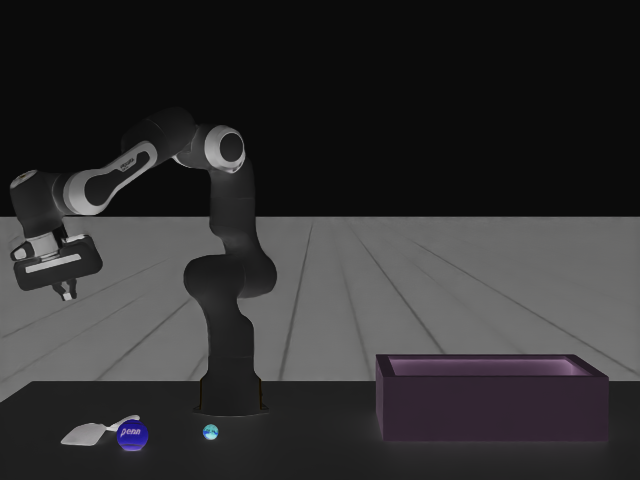
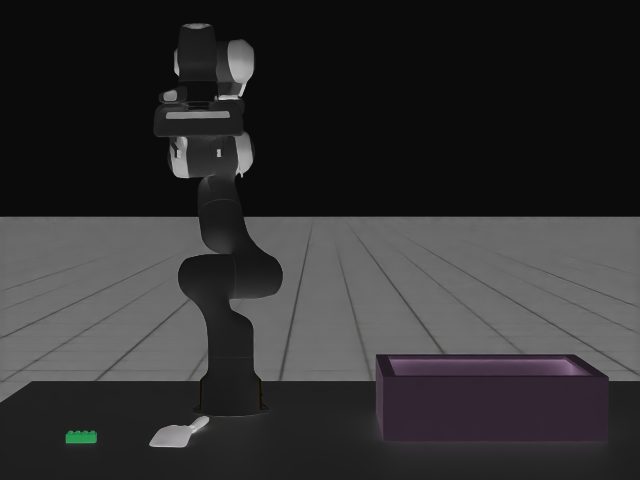
obs added

diff --git a/day3/day3_3.3.pickplace_object_statemachine.py b/day3/day3_3.3.pickplace_object_statemachine.py
@@ -73,13 +73,16 @@ MODEL_PATH = os.path.join(DIR_PATH, 'data/checkpoint/maskrcnn_ckpt/maskrcnn_trai
 NUM_CLASSES = 79  # 모델 구조는 학습 때와 동일해야 함
 CONFIDENCE_THRESHOLD = 0.5
 
+# YCB_OBJECT_CLASSES = sorted([
+#     '002_master_chef_can', '008_pudding_box', '014_lemon', '021_bleach_cleanser', '029_plate', '036_wood_block', '044_flat_screwdriver', '054_softball', '061_foam_brick', '065_c_cups', '065_i_cups', '072_b_toy_airplane', '073_c_lego_duplo',
+#     '003_cracker_box', '009_gelatin_box', '015_peach', '022_windex_bottle', '030_fork', '037_scissors', '048_hammer', '055_baseball', '062_dice', '065_d_cups', '065_j_cups', '072_c_toy_airplane', '073_d_lego_duplo',
+#     '004_sugar_box', '010_potted_meat_can', '016_pear', '024_bowl', '031_spoon', '038_padlock', '050_medium_clamp', '056_tennis_ball', '063_a_marbles', '065_e_cups', '070_a_colored_wood_blocks', '072_d_toy_airplane', '073_e_lego_duplo',
+#     '005_tomato_soup_can', '011_banana', '017_orange', '025_mug', '032_knife', '040_large_marker', '051_large_clamp', '057_racquetball', '063_b_marbles', '065_f_cups', '070_b_colored_wood_blocks', '072_e_toy_airplane', '073_f_lego_duplo',
+#     '006_mustard_bottle', '012_strawberry', '018_plum', '026_sponge', '033_spatula', '042_adjustable_wrench', '052_extra_large_clamp', '058_golf_ball', '065_a_cups', '065_g_cups', '071_nine_hole_peg_test', '073_a_lego_duplo', '073_g_lego_duplo',
+#     '007_tuna_fish_can', '013_apple', '019_pitcher_base', '028_skillet_lid', '035_power_drill', '043_phillips_screwdriver', '053_mini_soccer_ball', '059_chain', '065_b_cups', '065_h_cups', '072_a_toy_airplane', '073_b_lego_duplo', '077_rubiks_cube'
+# ])
 YCB_OBJECT_CLASSES = sorted([
-    '002_master_chef_can', '008_pudding_box', '014_lemon', '021_bleach_cleanser', '029_plate', '036_wood_block', '044_flat_screwdriver', '054_softball', '061_foam_brick', '065_c_cups', '065_i_cups', '072_b_toy_airplane', '073_c_lego_duplo',
-    '003_cracker_box', '009_gelatin_box', '015_peach', '022_windex_bottle', '030_fork', '037_scissors', '048_hammer', '055_baseball', '062_dice', '065_d_cups', '065_j_cups', '072_c_toy_airplane', '073_d_lego_duplo',
-    '004_sugar_box', '010_potted_meat_can', '016_pear', '024_bowl', '031_spoon', '038_padlock', '050_medium_clamp', '056_tennis_ball', '063_a_marbles', '065_e_cups', '070_a_colored_wood_blocks', '072_d_toy_airplane', '073_e_lego_duplo',
-    '005_tomato_soup_can', '011_banana', '017_orange', '025_mug', '032_knife', '040_large_marker', '051_large_clamp', '057_racquetball', '063_b_marbles', '065_f_cups', '070_b_colored_wood_blocks', '072_e_toy_airplane', '073_f_lego_duplo',
-    '006_mustard_bottle', '012_strawberry', '018_plum', '026_sponge', '033_spatula', '042_adjustable_wrench', '052_extra_large_clamp', '058_golf_ball', '065_a_cups', '065_g_cups', '071_nine_hole_peg_test', '073_a_lego_duplo', '073_g_lego_duplo',
-    '007_tuna_fish_can', '013_apple', '019_pitcher_base', '028_skillet_lid', '035_power_drill', '043_phillips_screwdriver', '053_mini_soccer_ball', '059_chain', '065_b_cups', '065_h_cups', '072_a_toy_airplane', '073_b_lego_duplo', '077_rubiks_cube'
+     '013_apple'
 ])
 CLASS_NAME = ['BACKGROUND'] + YCB_OBJECT_CLASSES
 
@@ -538,7 +541,7 @@ def main():
 
     # 카메라 인트린식(intrinsics)
     K = robot_camera.data.intrinsic_matrices.squeeze().cpu().numpy()
-
+    total_reward = 0
     # 시뮬레이션 루프
     while simulation_app.is_running():
         # 모델 추론 상태 - 학습 연산 비활성화
@@ -815,7 +818,7 @@ def main():
             tcp_rest_position = ee_frame_sensor.data.target_pos_w[..., 0, :].clone() - env.unwrapped.scene.env_origins
             tcp_rest_orientation = ee_frame_sensor.data.target_quat_w[..., 0, :].clone()
             ee_pose = torch.cat([tcp_rest_position, tcp_rest_orientation], dim=-1)
-
+            
             # state machine 을 통한 action 값 출력
             actions = pick_and_place_sm.compute(
                 ee_pose=ee_pose,
@@ -823,13 +826,21 @@ def main():
                 pregrasp_pose=pick_and_place_sm.pregrasp_pose,
                 robot_data=robot_data,
             )
+            
+            #print("grasp_pose = ", grasp_pose)
             print("actions = ", actions)
             # 환경에 대한 액션을 실행
             obs, rewards, terminated, truncated, info = env.step(actions)
-
+            robotstate = torch.cat([ee_pose, torch.tensor(obs["policy"][0, 7:9].tolist(), device=ee_pose.device).unsqueeze(0)], dim=-1)
+            #print(robotstate.shape)
+            # print("reward = ", rewards)
+            # print("total = ", total_reward)
+            
             # 시뮬레이션 종료 여부 체크
             dones = terminated | truncated
+            print("dones = ", dones)
             if dones:
+                total_reward=0
                 if terminated:
                     print("Episode terminated")
                 else:

diff --git a/day3/task/lift/custom_lift_env_cfg_3_1.py b/day3/task/lift/custom_lift_env_cfg_3_1.py
@@ -114,15 +114,15 @@ class ObjectTableSceneCfg(InteractiveSceneCfg):
 class CommandsCfg:
     """MDP에 사용되는 명령어(command) 정의"""
 
-    # object_pose = mdp_3_1.UniformPoseCommandCfg(
-    #     asset_name="robot",
-    #     body_name=MISSING,      # agent 환경에서 지정됨
-    #     resampling_time_range=(5.0, 5.0),
-    #     debug_vis=False,
-    #     ranges=mdp_3_1.UniformPoseCommandCfg.Ranges(
-    #         pos_x=(0.5, 0.5), pos_y=(-0.0, 0.0), pos_z=(0.525, 0.53), roll=(0.0, 0.0), pitch=(0.0, 0.0), yaw=(0.0, 0.0)
-    #     ),
-    # )
+    object_pose = mdp_3_1.UniformPoseCommandCfg(
+        asset_name="robot",
+        body_name="panda_hand",      # agent 환경에서 지정됨
+        resampling_time_range=(5.0, 5.0),
+        debug_vis=False,
+        ranges=mdp_3_1.UniformPoseCommandCfg.Ranges(
+            pos_x=(0.5, 0.5), pos_y=(-0.0, 0.0), pos_z=(0.525, 0.53), roll=(0.0, 0.0), pitch=(0.0, 0.0), yaw=(0.0, 0.0)
+        ),
+    )
 
 
 @configclass
@@ -140,21 +140,21 @@ class ActionsCfg:
 class ObservationsCfg:
     """MDP에 사용되는 관측(observation) 정의"""
 
-    # @configclass
-    # class PolicyCfg(ObsGroup):
-    #     """policy 네트워크 입력에 사용되는 관측 항목 그룹"""
-    #     joint_pos = ObsTerm(func=mdp_3_1.joint_pos_rel)
-    #     joint_vel = ObsTerm(func=mdp_3_1.joint_vel_rel)
-    #     object_position = ObsTerm(func=mdp_3_1.object_position_in_robot_root_frame)
-    #     # target_object_position = ObsTerm(func=mdp_3_1.generated_commands, params={"command_name": "object_pose"})
-    #     actions = ObsTerm(func=mdp_3_1.last_action)
+    @configclass
+    class PolicyCfg(ObsGroup):
+        """policy 네트워크 입력에 사용되는 관측 항목 그룹"""
+        joint_pos = ObsTerm(func=mdp_3_1.joint_pos_rel)
+        joint_vel = ObsTerm(func=mdp_3_1.joint_vel_rel)
+        object_position = ObsTerm(func=mdp_3_1.object_position_in_robot_root_frame)
+        # target_object_position = ObsTerm(func=mdp_3_1.generated_commands, params={"command_name": "object_pose"})
+        actions = ObsTerm(func=mdp_3_1.last_action)
 
-    #     def __post_init__(self):
-    #         self.enable_corruption = True
-    #         self.concatenate_terms = True
+        def __post_init__(self):
+            self.enable_corruption = True
+            self.concatenate_terms = True
 
-    # # 관측 그룹 등록
-    # policy: PolicyCfg = PolicyCfg()
+    # 관측 그룹 등록
+    policy: PolicyCfg = PolicyCfg()
 
 
 @configclass
@@ -177,30 +177,30 @@ class EventCfg:
 class RewardsCfg:
     """보상(reward) 항목 설정 - 강화학습 개발시 필요"""
 
-    # reaching_object = RewTerm(func=mdp_3_1.object_ee_distance, params={"std": 0.1}, weight=1.0)
+    reaching_object = RewTerm(func=mdp_3_1.object_ee_distance, params={"std": 0.1}, weight=1.0)
 
-    # lifting_object = RewTerm(func=mdp_3_1.object_is_lifted, params={"minimal_height": 0.04}, weight=15.0)
+    lifting_object = RewTerm(func=mdp_3_1.object_is_lifted, params={"minimal_height": 0.04}, weight=15.0)
 
-    # object_goal_tracking = RewTerm(
-    #     func=mdp_3_1.object_goal_distance,
-    #     params={"std": 0.3, "minimal_height": 0.04, "command_name": "object_pose"},
-    #     weight=16.0,
-    # )
+    object_goal_tracking = RewTerm(
+        func=mdp_3_1.object_goal_distance,
+        params={"std": 0.3, "minimal_height": 0.04, "command_name": "object_pose"},
+        weight=16.0,
+    )
 
-    # object_goal_tracking_fine_grained = RewTerm(
-    #     func=mdp_3_1.object_goal_distance,
-    #     params={"std": 0.05, "minimal_height": 0.04, "command_name": "object_pose"},
-    #     weight=5.0,
-    # )
+    object_goal_tracking_fine_grained = RewTerm(
+        func=mdp_3_1.object_goal_distance,
+        params={"std": 0.05, "minimal_height": 0.04, "command_name": "object_pose"},
+        weight=5.0,
+    )
 
-    # # action penalty
-    # action_rate = RewTerm(func=mdp_3_1.action_rate_l2, weight=-1e-4)
+    # action penalty
+    action_rate = RewTerm(func=mdp_3_1.action_rate_l2, weight=-1e-4)
 
-    # joint_vel = RewTerm(
-    #     func=mdp_3_1.joint_vel_l2,
-    #     weight=-1e-4,
-    #     params={"asset_cfg": SceneEntityCfg("robot")},
-    # )
+    joint_vel = RewTerm(
+        func=mdp_3_1.joint_vel_l2,
+        weight=-1e-4,
+        params={"asset_cfg": SceneEntityCfg("robot")},
+    )
 
 
 @configclass

diff --git a/day3/task/lift/custom_pickplace_env_cfg_3_3.py b/day3/task/lift/custom_pickplace_env_cfg_3_3.py
@@ -99,7 +99,7 @@ class ObjectTableSceneCfg(InteractiveSceneCfg):
         ycb_obj_usd_paths = glob.glob('data/assets/ycb_usd/ycb/*/final.usd')
 
         # YCB object 중 3가지 물체 random하게 설정
-        selected_ycb_obj_usd_paths = random.sample(ycb_obj_usd_paths, 3)
+        selected_ycb_obj_usd_paths = random.sample(ycb_obj_usd_paths, 1)
 
         # YCB object 놓을 위치 지정(카메라 view에 맞게)
         objects_position = [[0.4, 0.0, 0.6],
@@ -111,10 +111,12 @@ class ObjectTableSceneCfg(InteractiveSceneCfg):
 
             # 지정된 위치에서 일정 거리 내에 random하게 위치 재설정 (0.05 이내)
             # 물체가 안겹치게 생성되도록 z위치를 조금씩 다르게 설정하는 것이 좋음
+            # random_position = [objects_position[i][0] + random.random() * 0.05, 
+            #                    objects_position[i][1] + random.random() * 0.03, 
+            #                    objects_position[i][2] + 0.05 * i]
             random_position = [objects_position[i][0] + random.random() * 0.05, 
                                objects_position[i][1] + random.random() * 0.03, 
                                objects_position[i][2] + 0.05 * i]
-            
             # YCB object 경로를 절대 경로로 설정
             ycb_obj_usd_path = os.path.join(os.getcwd(), selected_ycb_obj_usd_paths[i])
 
@@ -156,6 +158,15 @@ class ObjectTableSceneCfg(InteractiveSceneCfg):
 class CommandsCfg:
     """MDP에 사용되는 명령어(command) 정의"""
 
+    # object_pose = mdp.UniformPoseCommandCfg(
+    #     asset_name="robot",
+    #     body_name="panda_hand",      # agent 환경에서 지정됨
+    #     resampling_time_range=(5.0, 5.0),
+    #     debug_vis=False,
+    #     ranges=mdp.UniformPoseCommandCfg.Ranges(
+    #         pos_x=(0.5, 0.5), pos_y=(-0.0, 0.0), pos_z=(0.525, 0.53), roll=(0.0, 0.0), pitch=(0.0, 0.0), yaw=(0.0, 0.0)
+    #     ),
+    # )
 
 @configclass
 class ActionsCfg:
@@ -169,6 +180,21 @@ class ActionsCfg:
 class ObservationsCfg:
     """MDP에 사용되는 관측(observation) 정의"""
 
+    @configclass
+    class PolicyCfg(ObsGroup):
+        """policy 네트워크 입력에 사용되는 관측 항목 그룹"""
+        joint_pos = ObsTerm(func=mdp.joint_pos_rel)
+        joint_vel = ObsTerm(func=mdp.joint_vel_rel)
+        object_position = ObsTerm(func=mdp.object_position_in_robot_root_frame)
+        # target_object_position = ObsTerm(func=mdp_3_1.generated_commands, params={"command_name": "object_pose"})
+        actions = ObsTerm(func=mdp.last_action)
+
+        def __post_init__(self):
+            self.enable_corruption = True
+            self.concatenate_terms = True
+
+    # 관측 그룹 등록
+    policy: PolicyCfg = PolicyCfg()
 
 @configclass
 class EventCfg:
@@ -179,7 +205,30 @@ class EventCfg:
 @configclass
 class RewardsCfg:
     """보상(reward) 항목 설정 - 강화학습 개발시 필요"""
+    # reaching_object = RewTerm(func=mdp.object_ee_distance, params={"std": 0.1}, weight=1.0)
 
+    # lifting_object = RewTerm(func=mdp.object_is_lifted, params={"minimal_height": 0.04}, weight=15.0)
+
+    # object_goal_tracking = RewTerm(
+    #     func=mdp.object_goal_distance,
+    #     params={"std": 0.3, "minimal_height": 0.04, "command_name": "object_pose"},
+    #     weight=16.0,
+    # )
+
+    # object_goal_tracking_fine_grained = RewTerm(
+    #     func=mdp.object_goal_distance,
+    #     params={"std": 0.05, "minimal_height": 0.04, "command_name": "object_pose"},
+    #     weight=5.0,
+    # )
+
+    # # action penalty
+    # action_rate = RewTerm(func=mdp.action_rate_l2, weight=-1e-4)
+
+    # joint_vel = RewTerm(
+    #     func=mdp.joint_vel_l2,
+    #     weight=-1e-4,
+    #     params={"asset_cfg": SceneEntityCfg("robot")},
+    # )
 
 @configclass
 class TerminationsCfg:

diff --git a/day3/day3_1.1.grasp_object_statemachine.py b/day3/day3_1.1.grasp_object_statemachine.py
@@ -269,7 +269,11 @@ def main():
     env = gym.make("Isaac-Lift-Cube-Franka-Custom-v0", cfg=env_cfg)
     env.reset()
     print(f"Environment reset. Number of environments: {env.unwrapped.num_envs}")
-    
+    print("***************************aaa")
+    #print(env.scene["robot"].get_articulation_view().body_names)
+
+
+
     # 환경 관측 카메라 시점 셋팅
     env.unwrapped.sim.set_camera_view(eye=[1.5, 1.5, 1.5], target=[0.0, 0.0, 0.5])
     
@@ -308,6 +312,7 @@ def main():
     init_ee_pose = pick_and_place_sm.ready_pose
     init_gripper_state = torch.tensor([GripperState.CLOSE], device=device).repeat(num_envs, 1)  # 그리퍼를 CLOSE 상태로 초기화
     actions = torch.cat([init_ee_pose, init_gripper_state], dim=-1)
+    total_reward = 0
     # 시뮬레이션 루프
     while simulation_app.is_running():
         # 모델 추론 상태 - 학습 연산 비활성화
@@ -413,14 +418,25 @@ def main():
                 pregrasp_pose=pick_and_place_sm.pregrasp_pose,
                 robot_data=robot_data,
             )
-
+            
             # 환경에 대한 액션을 실행 (환경에서 상태를 업데이트)
             obs, rewards, terminated, truncated, info = env.step(actions)
-
+            #print("obs = ", obs)
+            # print("actions = ", actions)
+            #print("action:", obs["policy"][0, -8:].tolist())
+           # print("pos번째:", obs["policy"][0, 7:9].tolist())
+            #print("vel번째:", obs["policy"][0, 16:18].tolist())
             # 시뮬레이션 종료 여부 체크
+            robotstate = torch.cat([ee_pose, torch.tensor(obs["policy"][0, 7:9].tolist(), device=ee_pose.device).unsqueeze(0)], dim=-1)
+           # print(robotstate.shape)
             dones = terminated | truncated
+            total_reward+=rewards
+            print("reward = ", rewards)
+            print("total = ", total_reward)
+            
             if dones:
                 print(terminated, truncated, dones)
+                total_reward=0
 
     # 환경 종료
     env.close()
